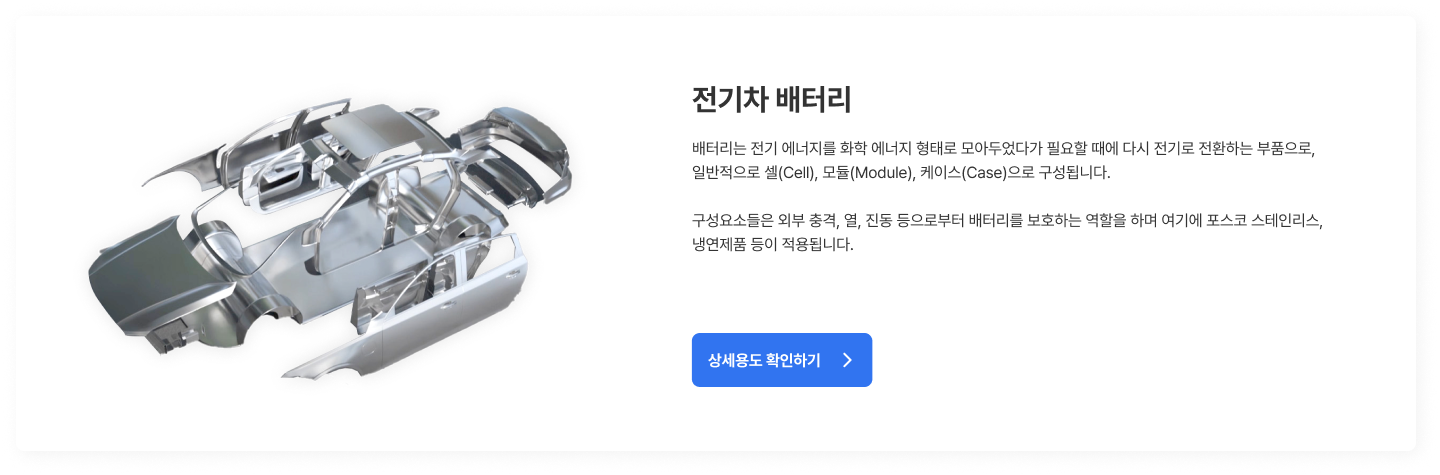
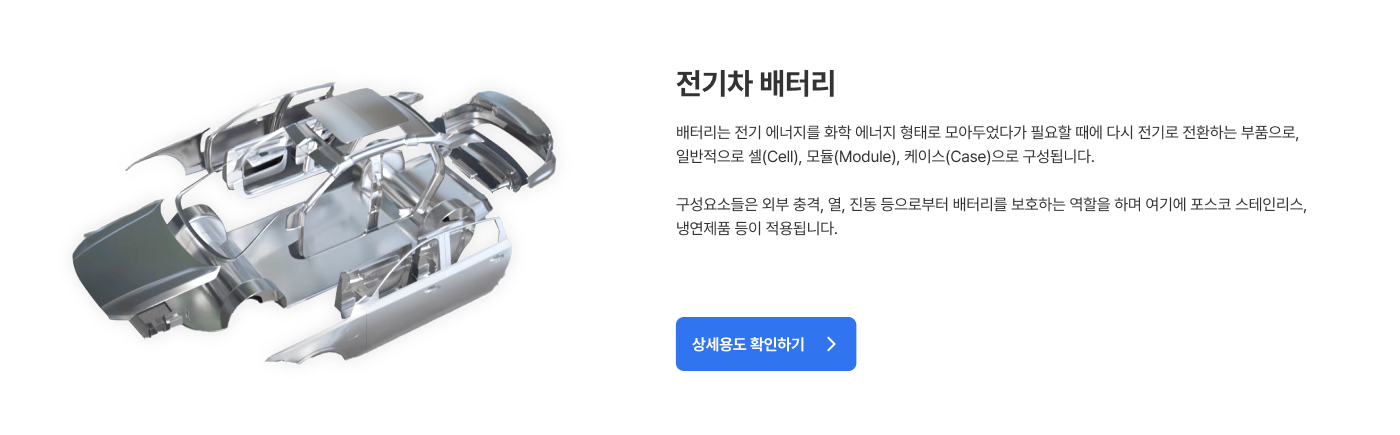
Add files via upload

diff --git a/index.html b/index.html
@@ -46,6 +46,7 @@
         <img src="img/Component 44.png" class="left_fix">
     </div>
     <div class="img_main_div">
+       
         <img src="img/car1.png" class="img_main_content" id = "0">
         <img src="img/car2.png" class="img_main_content" style="opacity: 0;" id = "1">
         <img src="img/car3.png" class="img_main_content" style="opacity: 0;" id = "2">
@@ -54,8 +55,11 @@
         <img src="img/car6.png" class="img_main_content2" id = "5">
         <img src="img/car7.png" class="img_main_content3" id = "6">
     </div>
-
+    <div style="background-color: rgba(236, 236, 236, 0.945)">
+        <img src="img/제품 목록.png" class="detail_text">
+    </div>
     <div class="center" style="background-color: rgba(236, 236, 236, 0.945)">
+       
         <img src="img/차체.png" class="detail target" >
         <img src="img/샤시.png" class="detail target" >
         <img src="img/전기차배터리팩.png"  class="detail target" >

diff --git a/js/main.js b/js/main.js
@@ -36,7 +36,7 @@ window.addEventListener("scroll", (event) => {
 });
 
 function calcYPosition() {
-  for (let i = 0; i < items.length; i++) {
+  for (let i = 1; i < items.length; i++) {
     let windowCenter = window.pageYOffset + window.innerHeight / 2.7;
 
     let rate = windowCenter / itemPositions[i];
@@ -101,7 +101,7 @@ window.onload = function () {
     itemPositions.push(
       items[i].getBoundingClientRect().top + window.pageYOffset
     );
-    items[i].style.transform = "matrix(0.6,0,0,0.6,0,150)";
+    if(i != 0 )items[i].style.transform = "matrix(0.6,0,0,0.6,0,150)";
   }
 
   let sliderbtns = document.getElementsByClassName("img_slider_btn");

diff --git a/css/common.css b/css/common.css
@@ -150,8 +150,24 @@ img{
 
 .detail{
     vertical-align: top !important;
+    filter: drop-shadow(10px 6px 6px #c3c3c3dc);
+    margin: 10px !important;
+    /* visibility: hidden; */
+}
+
+.detail_text{
+    position: relative;
+    margin-top: 30px;
+    margin-bottom: 10px;
+    left:  280px;
+    /* filter: drop-shadow(10px 6px 6px #c3c3c3); */
     /* margin: 5px !important; */
     /* visibility: hidden; */
+}
+
+img {
+    padding: 0;
+    margin: 0;
 }
 
 .useskill{
